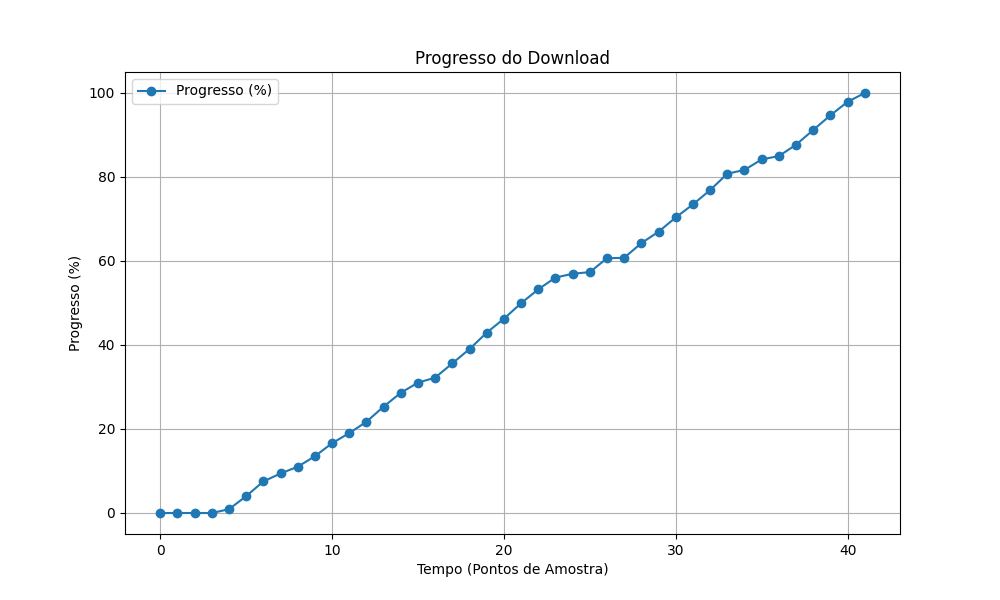
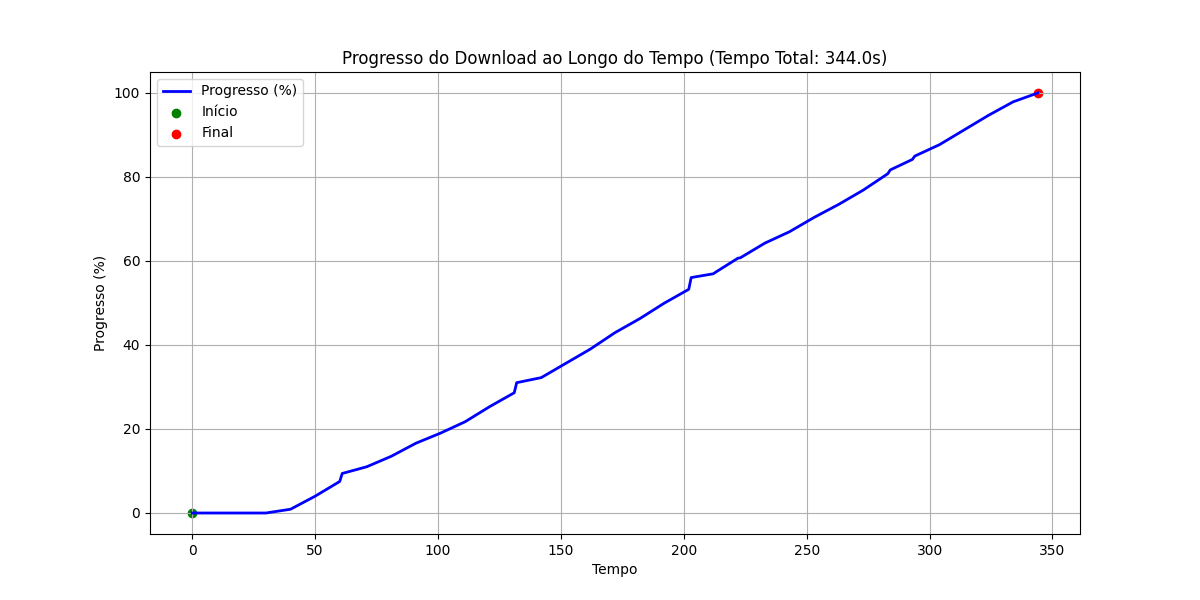
add 2 other graphics (download and total size)

diff --git a/python/analysis1.py b/python/analysis1.py
@@ -1,21 +1,31 @@
 import pandas as pd
 import matplotlib.pyplot as plt
 import os
+import json
 
 # Caminho para o ficheiro CSV
 csv_file = "output/log_data_aggregated.csv"
-
-# Carrega os dados do CSV para um DataFrame
-data = pd.read_csv(csv_file)
-
 output_dir = "./figures"
 
-# 1. Gráfico de Progresso do Download ao Longo do Tempo
-plt.figure(figsize=(10, 6))
-plt.plot(data.index, data["Progresso"], label="Progresso (%)", marker='o')
-plt.xlabel("Tempo (Pontos de Amostra)")
+data = pd.read_csv(csv_file)
+
+tempo_total = data["Tempo"].max()
+
+##################################################################################
+############# 1. Gráfico de Progresso do Download ao Longo do Tempo ##############
+##################################################################################
+
+plt.figure(figsize=(12, 6))
+plt.plot(data["Tempo"], data["Progresso"], label="Progresso (%)", color="blue", linewidth=2)
+
+# Anotações
+plt.scatter(data["Tempo"].iloc[0], data["Progresso"].iloc[0], color="green", label="Início")
+plt.scatter(data["Tempo"].iloc[-1], data["Progresso"].iloc[-1], color="red", label="Final")
+
+# Configurações do gráfico
+plt.xlabel("Tempo")
 plt.ylabel("Progresso (%)")
-plt.title("Progresso do Download")
+plt.title(f"Progresso do Download ao Longo do Tempo (Tempo Total: {tempo_total:.1f}s)")
 plt.legend()
 plt.grid(True)
 
@@ -24,4 +34,59 @@ output_path = os.path.join(output_dir, "grafico_progresso.png")
 plt.savefig(output_path)
 plt.show()
 
-print(f"O gráfico foi guardado em: {output_path}")
+
+##################################################################################
+################ 2. Evolução do Download e da sua velocidade #####################
+##################################################################################
+
+# Ordena os dados pelo tempo
+data = data.sort_values(by="Tempo").reset_index(drop=True)
+
+# Gráfico de Velocidade de Download ao Longo do Tempo
+plt.figure(figsize=(12, 6))
+plt.plot(data["Tempo"], data["Download"], color="blue", linewidth=2, label="Velocidade")
+
+# Configurações do gráfico
+plt.xlabel("Tempo (s)")
+plt.ylabel("Velocidade do Download (Mbps)")
+plt.title("Evolução da Velocidade de Download ao Longo do Tempo (Ordenado por Tempo)")
+plt.legend()
+plt.grid(True)  
+
+# Salva o gráfico
+output_path = os.path.join(output_dir, "grafico_velocidade_download_ordenado.png")
+plt.savefig(output_path)
+plt.show()
+
+
+##################################################################################
+#################### 3. Volume total de dados  ###################################
+##################################################################################
+
+# Caminho para o ficheiro JSON
+json_file = "./logs/stats1.json"
+
+# Carregar os dados do JSON
+with open(json_file, "r") as file:
+    data = json.load(file)
+
+# Extrair valores de `uploaded-bytes` e `downloaded-bytes`
+downloaded = data.get("downloaded-bytes", 0) / (1024 ** 2)  # Converte para MB
+uploaded = data.get("uploaded-bytes", 0) / (1024 ** 2)  # Converte para MB
+total = downloaded + uploaded  # Soma total em MB
+
+# Preparar dados para o gráfico
+labels = ["Downloaded", "Uploaded", "Total"]
+values = [downloaded, uploaded, total]
+
+plt.figure(figsize=(8, 6))
+plt.bar(labels, values, color=["blue", "green", "orange"])
+plt.title("Bytes Downloaded, Uploaded e Total (MB)")
+plt.ylabel("MB")
+plt.xlabel("Categoria")
+plt.grid(axis="y", linestyle="--", alpha=0.7)
+
+# Salvar o gráfico
+output_path = os.path.join(output_dir, "grafico_bytes.png")
+plt.savefig(output_path)
+plt.show()

diff --git a/python/clean1.py b/python/clean1.py
@@ -9,20 +9,30 @@ output_file = "./output/log_data_aggregated.csv"
 # Lê os dados do CSV
 data = pd.read_csv(input_file)
 
-# Agrupa os dados por `Timestamp` e calcula médias para colunas numéricas
+# Função para converter velocidades de kB/s para MB/s
+def convert_to_mbs(speed):
+    if "kB/s" in speed:
+        return float(speed.replace("kB/s", "").strip()) / 1000  # kB/s para MB/s
+    elif "MB/s" in speed:
+        return float(speed.replace("MB/s", "").strip())  # Mantém MB/s inalterado
+    return 0
+
+# Aplica a conversão na coluna `Download` antes de agregar
+data["Download"] = data["Download"].apply(convert_to_mbs)
+
+# Agrupa os dados por `Tempo` e calcula médias ou valores relevantes para cada coluna
 aggregated_data = (
     data.groupby("Tempo", as_index=False)
     .agg({
-        "Progresso": lambda x:x.iloc[0],  
-        "Peers Conectados": lambda x:x.iloc[0],  
-        "Peers Totais": "mean",  
-        "Download": lambda x: x.max(),
-        "Upload": lambda x: x.max(), 
+        "Progresso": lambda x: x.iloc[0],  # Mantém o primeiro valor para `Progresso`
+        "Peers Conectados": lambda x: x.iloc[0],  # Mantém o primeiro valor para `Peers Conectados`
+        "Peers Totais": "mean",  # Calcula a média de `Peers Totais`
+        "Download": "max",  # Usa o valor máximo de `Download` (em MB/s)
+        "Upload": lambda x: x.max(),  # Usa o valor máximo de `Upload`
     })
 )
 
-# Converte as colunas `Download` e `Upload` para strings (caso necessário)
-aggregated_data["Download"] = aggregated_data["Download"].astype(str)
+# Converte a coluna `Upload` para string (caso necessário)
 aggregated_data["Upload"] = aggregated_data["Upload"].astype(str)
 
 # Salva o CSV com os dados agregados
